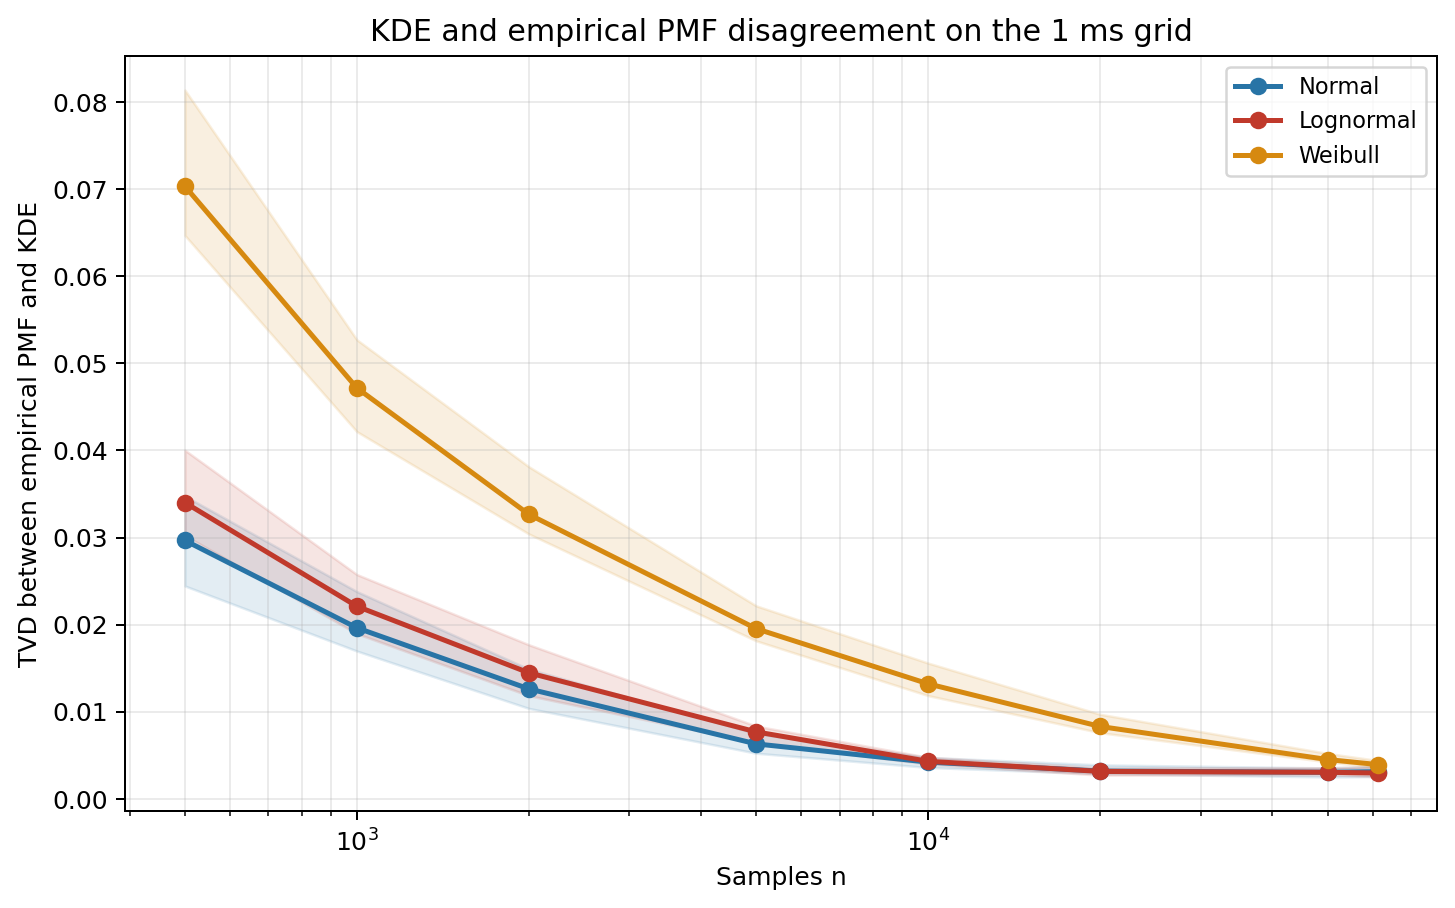
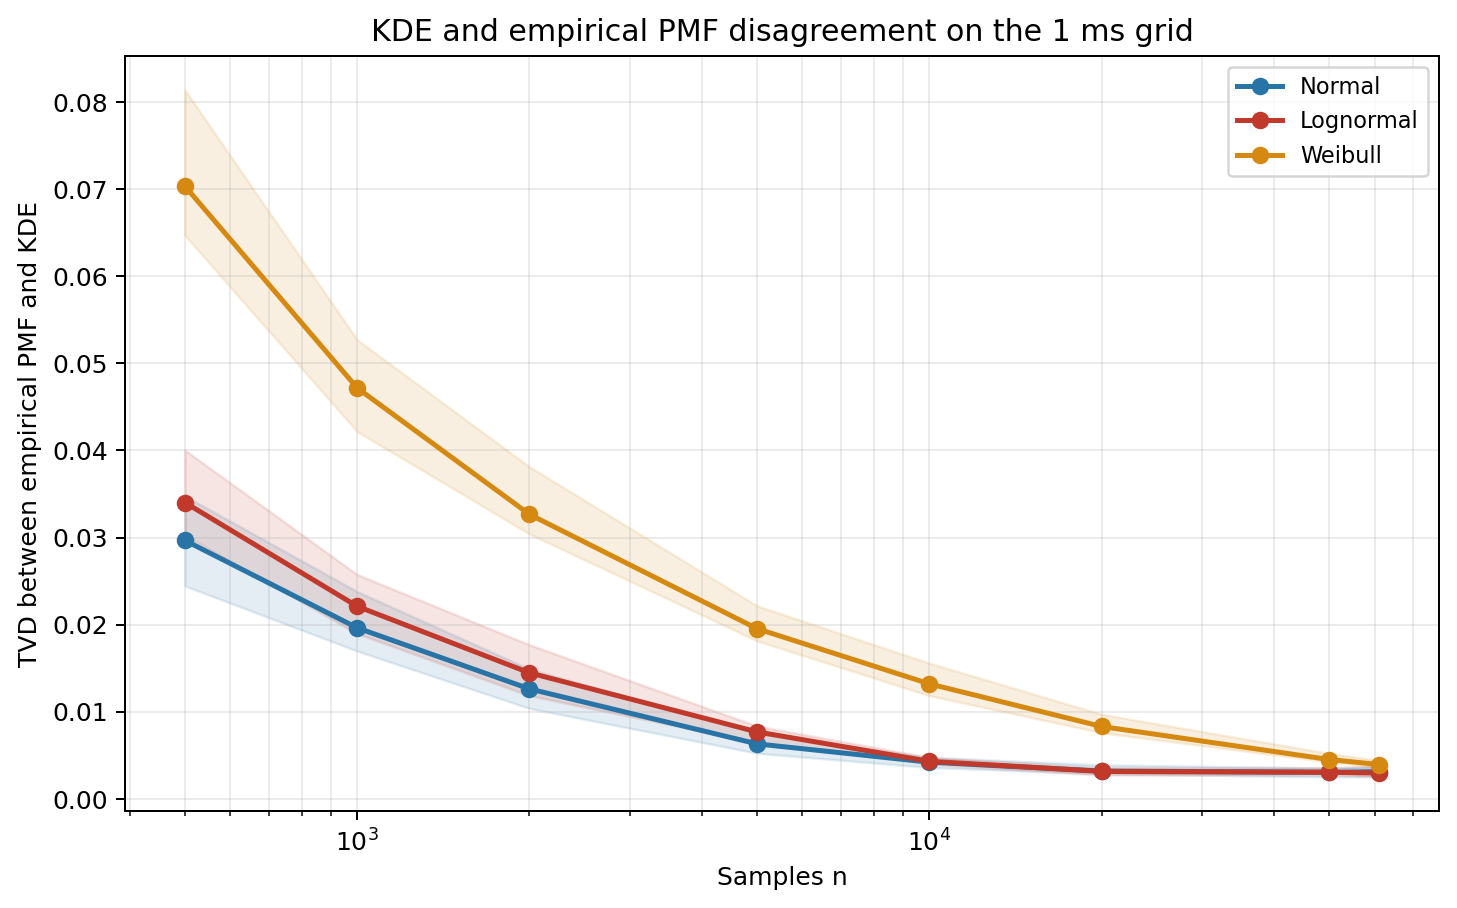
Update statistical sample complexity report

diff --git a/delay-monitoring/analysis/statistical_sample_complexity_report.py b/delay-monitoring/analysis/statistical_sample_complexity_report.py
@@ -11,6 +11,9 @@ import csv
 import math
 import os
 
+import matplotlib
+
+matplotlib.use("Agg")
 import matplotlib.pyplot as plt
 import numpy as np
 from scipy import stats
@@ -23,6 +26,12 @@ RESULTS_DIR = os.path.join(
 
 EPSILON = 0.05
 DELTA = 0.05
+DISCRETE_N_THEORY = {
+    "binomial": 8920,
+    "zipf": 8520,
+    "piecewise": 8520,
+}
+CONTINUOUS_N_THEORY = 60520
 GRID_MAX = 150.0
 BIN_WIDTH = 1.0
 BIN_EDGES = np.arange(0.0, GRID_MAX + BIN_WIDTH, BIN_WIDTH)
@@ -110,17 +119,19 @@ def bound_curve(k, ns):
     return np.minimum(1.0, np.sqrt((k + math.log(1.0 / EPSILON)) / ns))
 
 
+def reference_bound_curve(n_theory, ns):
+    ns = np.asarray(ns, dtype=float)
+    return np.minimum(1.0, DELTA * np.sqrt(n_theory / ns))
+
+
 def tvd(p, q):
     return 0.5 * float(np.sum(np.abs(p - q)))
 
 
 def empirical_discrete_pmf(samples, support):
-    counts = np.zeros(len(support), dtype=float)
     offset = int(support[0])
-    for value in samples:
-        idx = int(value) - offset
-        if 0 <= idx < len(counts):
-            counts[idx] += 1.0
+    indices = np.asarray(samples, dtype=int) - offset
+    counts = np.bincount(indices, minlength=len(support))[: len(support)].astype(float)
     return counts / counts.sum()
 
 
@@ -215,7 +226,7 @@ def run_discrete():
             "ns": ns_by_dist[name],
             "values": values_by_n,
             "k": len(support),
-            "n_theory": finite_bound(len(support)),
+            "n_theory": DISCRETE_N_THEORY[name],
         }
 
     fig, axes = plt.subplots(1, 3, figsize=(15, 4.8), sharey=True)
@@ -228,7 +239,13 @@ def run_discrete():
 
         ax.fill_between(ns, q25, q75, color=cfg["color"], alpha=0.18)
         ax.plot(ns, med, marker="o", color=cfg["color"], linewidth=2, label="Median TVD")
-        ax.plot(curve_x, bound_curve(k, curve_x), "k--", linewidth=1.3, label="Theory curve")
+        ax.plot(
+            curve_x,
+            reference_bound_curve(n_theory, curve_x),
+            "k--",
+            linewidth=1.3,
+            label="Theory curve",
+        )
         ax.axhline(DELTA, color="#555555", linestyle=":", linewidth=1.2, label="Target")
         ax.axvline(n_theory, color="#922b21", linestyle=":", linewidth=1.2)
         ax.set_xscale("log")
@@ -250,7 +267,106 @@ def run_discrete():
     out = os.path.join(RESULTS_DIR, "statistical_discrete_tvd_vs_n.png")
     plt.savefig(out, dpi=180, bbox_inches="tight")
     plt.close()
-    return results, out
+
+    fig, axes = plt.subplots(1, 3, figsize=(15, 4.8), sharey=True)
+    for ax, (name, cfg) in zip(axes, DISCRETE_DISTS.items()):
+        ns = results[name]["ns"]
+        worst = np.array([np.max(results[name]["values"][n]) for n in ns])
+        best = np.array([np.min(results[name]["values"][n]) for n in ns])
+        k = results[name]["k"]
+        n_theory = results[name]["n_theory"]
+        curve_x = np.logspace(math.log10(min(ns)), math.log10(max(ns)), 250)
+
+        ax.fill_between(ns, best, worst, color=cfg["color"], alpha=0.14)
+        ax.plot(
+            ns,
+            worst,
+            marker="o",
+            color=cfg["color"],
+            linewidth=2,
+            label="Worst-case TVD",
+        )
+        ax.plot(
+            curve_x,
+            reference_bound_curve(n_theory, curve_x),
+            "k--",
+            linewidth=1.3,
+            label="Theory curve",
+        )
+        ax.axhline(DELTA, color="#555555", linestyle=":", linewidth=1.2, label="Target")
+        ax.axvline(n_theory, color="#922b21", linestyle=":", linewidth=1.2)
+        ax.set_xscale("log")
+        ax.set_title(f"{cfg['label']}, k={k}")
+        ax.set_xlabel("Samples n")
+        ax.grid(True, alpha=0.25, which="both")
+        ax.text(
+            0.03,
+            0.92,
+            f"$n_{{theory}}$ = {n_theory:,}",
+            transform=ax.transAxes,
+            fontsize=9,
+            bbox=dict(facecolor="white", alpha=0.8, edgecolor="none"),
+        )
+    axes[0].set_ylabel("Total variation distance")
+    axes[0].legend(fontsize=8, loc="upper right")
+    fig.suptitle("Discrete distributions: worst-case TVD against true PMF as samples increase")
+    plt.tight_layout()
+    worst_out = os.path.join(RESULTS_DIR, "statistical_discrete_worst_tvd_vs_n.png")
+    plt.savefig(worst_out, dpi=180, bbox_inches="tight")
+    plt.close()
+
+    separate_worst_outs = []
+    for name, cfg in DISCRETE_DISTS.items():
+        ns = results[name]["ns"]
+        worst = np.array([np.max(results[name]["values"][n]) for n in ns])
+        best = np.array([np.min(results[name]["values"][n]) for n in ns])
+        k = results[name]["k"]
+        n_theory = results[name]["n_theory"]
+        curve_x = np.logspace(math.log10(min(ns)), math.log10(max(ns)), 250)
+
+        fig, ax = plt.subplots(figsize=(6.2, 4.6))
+        ax.fill_between(ns, best, worst, color=cfg["color"], alpha=0.14)
+        ax.plot(
+            ns,
+            worst,
+            marker="o",
+            color=cfg["color"],
+            linewidth=2,
+            label="Worst-case TVD",
+        )
+        ax.plot(
+            curve_x,
+            reference_bound_curve(n_theory, curve_x),
+            "k--",
+            linewidth=1.3,
+            label="Theory curve",
+        )
+        ax.axhline(DELTA, color="#555555", linestyle=":", linewidth=1.2, label="Target")
+        ax.axvline(n_theory, color="#922b21", linestyle=":", linewidth=1.2)
+        ax.set_xscale("log")
+        ax.set_title(f"{cfg['label']}, k={k}")
+        ax.set_xlabel("Samples n")
+        ax.set_ylabel("Total variation distance")
+        ax.grid(True, alpha=0.25, which="both")
+        ax.text(
+            0.03,
+            0.92,
+            f"$n_{{theory}}$ = {n_theory:,}",
+            transform=ax.transAxes,
+            fontsize=9,
+            bbox=dict(facecolor="white", alpha=0.8, edgecolor="none"),
+        )
+        ax.legend(fontsize=8, loc="upper right")
+        plt.tight_layout()
+        separate_out = os.path.join(
+            RESULTS_DIR,
+            f"statistical_discrete_worst_tvd_vs_n_{name}.png",
+        )
+        plt.savefig(separate_out, dpi=180, bbox_inches="tight")
+        plt.close()
+        separate_worst_outs.append(separate_out)
+
+    return results, out, worst_out, separate_worst_outs
 
 
 def run_continuous():
@@ -279,7 +395,7 @@ def run_continuous():
             "kde": kde_by_n,
             "gap": gap_by_n,
             "k": K_CONT,
-            "n_theory": finite_bound(K_CONT),
+            "n_theory": CONTINUOUS_N_THEORY,
         }
 
     fig, axes = plt.subplots(1, 3, figsize=(15, 4.8), sharey=True)
@@ -293,7 +409,13 @@ def run_continuous():
         ax.plot(ns, med_pmf, marker="s", color="#566573", linewidth=1.8, label="PMF")
         ax.fill_between(ns, q25_kde, q75_kde, color=cfg["color"], alpha=0.16)
         ax.plot(ns, med_kde, marker="o", color=cfg["color"], linewidth=2, label="KDE")
-        ax.plot(curve_x, bound_curve(K_CONT, curve_x), "k--", linewidth=1.3, label="PMF theory")
+        ax.plot(
+            curve_x,
+            reference_bound_curve(res["n_theory"], curve_x),
+            "k--",
+            linewidth=1.3,
+            label="PMF theory",
+        )
         ax.axhline(DELTA, color="#555555", linestyle=":", linewidth=1.2, label="Target")
         ax.axvline(res["n_theory"], color="#922b21", linestyle=":", linewidth=1.2)
         ax.set_xscale("log")
@@ -316,6 +438,107 @@ def run_continuous():
     plt.savefig(out_accuracy, dpi=180, bbox_inches="tight")
     plt.close()
 
+    separate_accuracy_outs = []
+    separate_worst_outs = []
+    for name, cfg in CONTINUOUS_DISTS.items():
+        res = results[name]
+        med_pmf, q25_pmf, q75_pmf = median_iqr(res["pmf"], ns)
+        med_kde, q25_kde, q75_kde = median_iqr(res["kde"], ns)
+        curve_x = np.logspace(math.log10(min(ns)), math.log10(max(ns)), 250)
+
+        fig, ax = plt.subplots(figsize=(6.2, 4.6))
+        ax.fill_between(ns, q25_pmf, q75_pmf, color="#7f8c8d", alpha=0.16)
+        ax.plot(ns, med_pmf, marker="s", color="#566573", linewidth=1.8, label="PMF")
+        ax.fill_between(ns, q25_kde, q75_kde, color=cfg["color"], alpha=0.16)
+        ax.plot(ns, med_kde, marker="o", color=cfg["color"], linewidth=2, label="KDE")
+        ax.plot(
+            curve_x,
+            reference_bound_curve(res["n_theory"], curve_x),
+            "k--",
+            linewidth=1.3,
+            label="PMF theory",
+        )
+        ax.axhline(DELTA, color="#555555", linestyle=":", linewidth=1.2, label="Target")
+        ax.axvline(res["n_theory"], color="#922b21", linestyle=":", linewidth=1.2)
+        ax.set_xscale("log")
+        ax.set_title(cfg["label"])
+        ax.set_xlabel("Samples n")
+        ax.set_ylabel("Total variation distance")
+        ax.grid(True, alpha=0.25, which="both")
+        ax.text(
+            0.03,
+            0.92,
+            f"$n_{{theory}}$ = {res['n_theory']:,}",
+            transform=ax.transAxes,
+            fontsize=9,
+            bbox=dict(facecolor="white", alpha=0.8, edgecolor="none"),
+        )
+        ax.legend(fontsize=8, loc="upper right")
+        plt.tight_layout()
+        separate_out = os.path.join(
+            RESULTS_DIR,
+            f"statistical_continuous_tvd_vs_n_{name}_60520.png",
+        )
+        plt.savefig(separate_out, dpi=180, bbox_inches="tight")
+        plt.close()
+        separate_accuracy_outs.append(separate_out)
+
+        worst_pmf = np.array([np.max(res["pmf"][n]) for n in ns])
+        best_pmf = np.array([np.min(res["pmf"][n]) for n in ns])
+        worst_kde = np.array([np.max(res["kde"][n]) for n in ns])
+        best_kde = np.array([np.min(res["kde"][n]) for n in ns])
+
+        fig, ax = plt.subplots(figsize=(6.2, 4.6))
+        ax.fill_between(ns, best_pmf, worst_pmf, color="#7f8c8d", alpha=0.14)
+        ax.plot(
+            ns,
+            worst_pmf,
+            marker="s",
+            color="#566573",
+            linewidth=1.8,
+            label="Worst-case PMF",
+        )
+        ax.fill_between(ns, best_kde, worst_kde, color=cfg["color"], alpha=0.14)
+        ax.plot(
+            ns,
+            worst_kde,
+            marker="o",
+            color=cfg["color"],
+            linewidth=2,
+            label="Worst-case KDE",
+        )
+        ax.plot(
+            curve_x,
+            reference_bound_curve(res["n_theory"], curve_x),
+            "k--",
+            linewidth=1.3,
+            label="PMF theory",
+        )
+        ax.axhline(DELTA, color="#555555", linestyle=":", linewidth=1.2, label="Target")
+        ax.axvline(res["n_theory"], color="#922b21", linestyle=":", linewidth=1.2)
+        ax.set_xscale("log")
+        ax.set_title(cfg["label"])
+        ax.set_xlabel("Samples n")
+        ax.set_ylabel("Total variation distance")
+        ax.grid(True, alpha=0.25, which="both")
+        ax.text(
+            0.03,
+            0.92,
+            f"$n_{{theory}}$ = {res['n_theory']:,}",
+            transform=ax.transAxes,
+            fontsize=9,
+            bbox=dict(facecolor="white", alpha=0.8, edgecolor="none"),
+        )
+        ax.legend(fontsize=8, loc="upper right")
+        plt.tight_layout()
+        worst_out = os.path.join(
+            RESULTS_DIR,
+            f"statistical_continuous_worst_tvd_vs_n_{name}_60520.png",
+        )
+        plt.savefig(worst_out, dpi=180, bbox_inches="tight")
+        plt.close()
+        separate_worst_outs.append(worst_out)
+
     fig, ax = plt.subplots(figsize=(8.2, 5.2))
     for name, cfg in CONTINUOUS_DISTS.items():
         med, q25, q75 = median_iqr(results[name]["gap"], ns)
@@ -331,7 +554,7 @@ def run_continuous():
     out_gap = os.path.join(RESULTS_DIR, "statistical_continuous_kde_pmf_gap.png")
     plt.savefig(out_gap, dpi=180, bbox_inches="tight")
     plt.close()
-    return results, out_accuracy, out_gap
+    return results, out_accuracy, out_gap, separate_accuracy_outs, separate_worst_outs
 
 
 def write_summary(discrete_results, continuous_results):
@@ -414,13 +637,29 @@ def print_key_numbers(discrete_results, continuous_results):
 def main():
     os.makedirs(RESULTS_DIR, exist_ok=True)
     shape_plot = plot_true_shapes()
-    discrete_results, discrete_plot = run_discrete()
-    continuous_results, continuous_plot, gap_plot = run_continuous()
+    discrete_results, discrete_plot, discrete_worst_plot, discrete_worst_separate = run_discrete()
+    (
+        continuous_results,
+        continuous_plot,
+        gap_plot,
+        continuous_separate,
+        continuous_worst_separate,
+    ) = run_continuous()
     summary = write_summary(discrete_results, continuous_results)
 
     print_key_numbers(discrete_results, continuous_results)
     print("\nSaved figures")
-    for path in (shape_plot, discrete_plot, continuous_plot, gap_plot, summary):
+    for path in (
+        shape_plot,
+        discrete_plot,
+        discrete_worst_plot,
+        *discrete_worst_separate,
+        continuous_plot,
+        *continuous_separate,
+        *continuous_worst_separate,
+        gap_plot,
+        summary,
+    ):
         print(f"  {path}")
 
 
